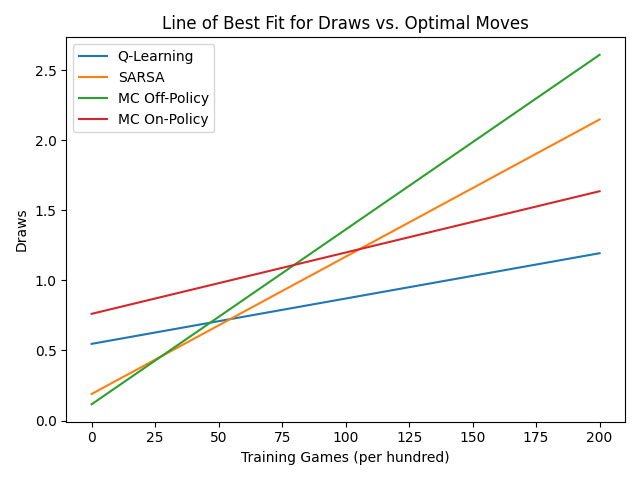
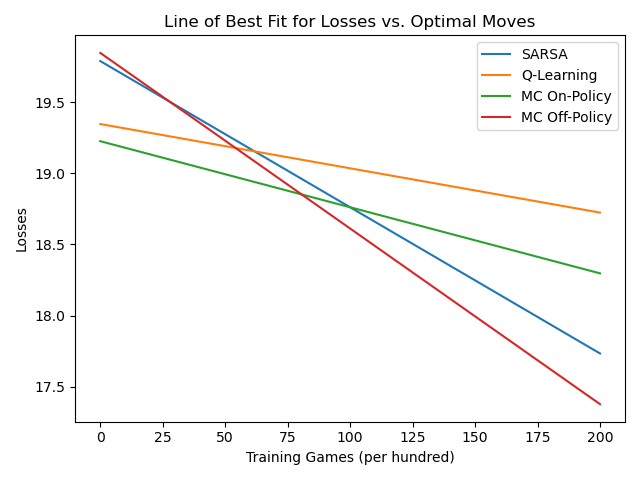
Updated results for connect four

diff --git a/checkers/plot_agent_reward.py b/checkers/plot_agent_reward.py
@@ -153,13 +153,13 @@ def plot_agent_reward(agent, name, *args, **kwargs):
             plt.show()
         case "opt_best_fit":
             X = [i for i in range(len(opt_results[2]))]
-            Y1 = opt_results[2]
+            Y1 = opt_results[1]
             a1, b1 = best_fit(X, Y1)
-            Y2 = opt_results2[2]
+            Y2 = opt_results2[1]
             a2, b2 = best_fit(X, Y2)
-            Y3 = opt_results3[2]
+            Y3 = opt_results3[1]
             a3, b3 = best_fit(X, Y3)
-            Y4 = opt_results4[2]
+            Y4 = opt_results4[1]
             a4, b4 = best_fit(X, Y4)
 
             plt.rcParams["figure.autolayout"] = True
@@ -171,8 +171,8 @@ def plot_agent_reward(agent, name, *args, **kwargs):
             plt.plot(X, yfit2, label=name2)
             plt.plot(X, yfit3, label=name3)
             plt.plot(X, yfit4, label=name4)
-            plt.title('Line of Best Fit for Draws vs. Optimal Moves')
-            plt.ylabel('Draws')
+            plt.title('Line of Best Fit for Losses vs. Optimal Moves')
+            plt.ylabel('Losses')
             plt.xlabel('Training Games (per hundred)')
             plt.legend()
             plt.show()
